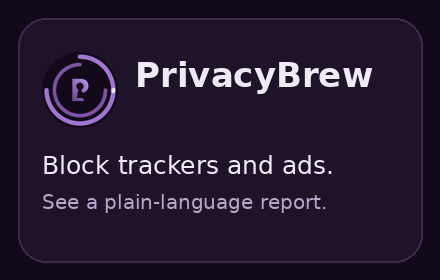
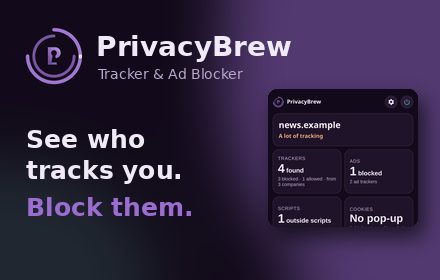
Store listing per Chrome best practices: descriptive title, summary, description, promo tile, marquee, support URL

diff --git a/store/LISTING.md b/store/LISTING.md
@@ -1,5 +1,40 @@
 # Chrome Web Store listing
 
+Paste these into the Store listing tab.
+
+## Title (from the package)
+
+PrivacyBrew: Tracker & Ad Blocker
+
+## Summary (132 characters max)
+
+The universe ain't giving you signs. They're targeted ads. See who tracks you and block trackers, ads and cookie pop-ups.
+
+## Description
+
+The universe ain't giving you signs. They're targeted ads, dear.
+
+Ads follow you because trackers follow you. PrivacyBrew shows who sees your visit to each website, in simple words, and stops them. It blocks known trackers and ads, rejects cookie pop-ups for you, and asks websites not to sell your data. Everything runs in your browser. Nothing is sent to us.
+
+What you get:
+- A simple report card for each website: trackers, ads, outside scripts, cookies and fingerprinting. Open any card to see the companies and what they do.
+- Tracker and ad blocking, on by default. Pages often load faster.
+- Cookie pop-ups answered for you: "Reject all", or only necessary cookies. It never selects "Accept all".
+- Messages that ask you to turn off your ad blocker are hidden where possible.
+- A "do not sell or share my data" request (Global Privacy Control) to every website. Do Not Track is optional.
+- A power button: turn PrivacyBrew off for one website, for a while, or until you turn it on again.
+
+Why you can trust it:
+- No account, no analytics, no ads.
+- Your browsing data stays in your browser.
+- Open source (GPLv3): https://github.com/privacybrew/privacybrew-extension
+
+Limits: PrivacyBrew finds known trackers and ads only. It cannot block all video ads. If a website breaks, turn PrivacyBrew off for that website.
+
+Lists: Disconnect tracker list (CC BY-NC-SA 4.0), EasyList. Cookie pop-up rules: DuckDuckGo autoconsent (MPL-2.0).
+
+Also from PrivacyBrew: the Android app and the free Browser Privacy Check at https://privacybrew.app
+
 ## Category
 
 Privacy & Security
@@ -8,31 +43,14 @@ Privacy & Security
 
 English
 
-## Name
+## Additional fields
 
-PrivacyBrew
+- Official URL / Homepage: https://privacybrew.app/extension.html
+- Support URL: https://privacybrew.app/feedback.html
 
-## Summary
+## Graphic assets
 
-See and block trackers, ads, cookie pop-ups, and fingerprinting signals in your browser.
-
-## Description
-
-PrivacyBrew shows who sees your visit to each website, in simple words. It also blocks known trackers and ads.
-
-What you get:
-- A report card for each website: trackers, ads, outside scripts, cookies and fingerprinting.
-- Tracker and ad blocking, on by default. Turn it off for one website if it breaks.
-- Cookie pop-up handling that tries to reject optional cookies.
-- A "do not sell my data" request (Global Privacy Control) to every website.
-- Optional Do Not Track requests for people who want them.
-
-What PrivacyBrew does not do:
-- It does not send your data anywhere. All checks run in your browser.
-- It has no account, no analytics and no ads.
-- It cannot block all video ads.
-
-Tracker list: Disconnect (CC BY-NC-SA 4.0). Ad list: EasyList. Cookie pop-up handling: DuckDuckGo Autoconsent.
-Source code: GPLv3.
-
-Also from PrivacyBrew: the Android app and the Browser Privacy Check at https://privacybrew.app
+- Store icon: store/store-icon-128.png
+- Screenshots (1280x800, in order): store/screenshots/01 to 05
+- Small promo tile (440x280): store/promo-small-440x280.png
+- Marquee (1400x560): store/marquee-1400x560.png

diff --git a/store/SUBMIT.md b/store/SUBMIT.md
@@ -5,8 +5,10 @@
 3. Paste the listing text from `store/LISTING.md`.
 4. Upload screenshots from `store/screenshots/`.
 5. Upload `store/promo-small-440x280.png` as the small promo tile.
+   Upload `store/marquee-1400x560.png` as the marquee image (optional; used only if Google features the extension).
    Upload `store/store-icon-128.png` as the store icon (96x96 artwork with 16 px transparent padding, per Chrome guidelines).
-6. Paste privacy answers from `store/PRIVACY_PRACTICES.md`.
+6. Additional fields: Homepage https://privacybrew.app/extension.html, Support URL https://privacybrew.app/feedback.html.
+7. Paste privacy answers from `store/PRIVACY_PRACTICES.md`.
 7. Distribution: public.
 8. Regions: all regions, unless you choose a smaller launch.
 9. Pricing: free.
